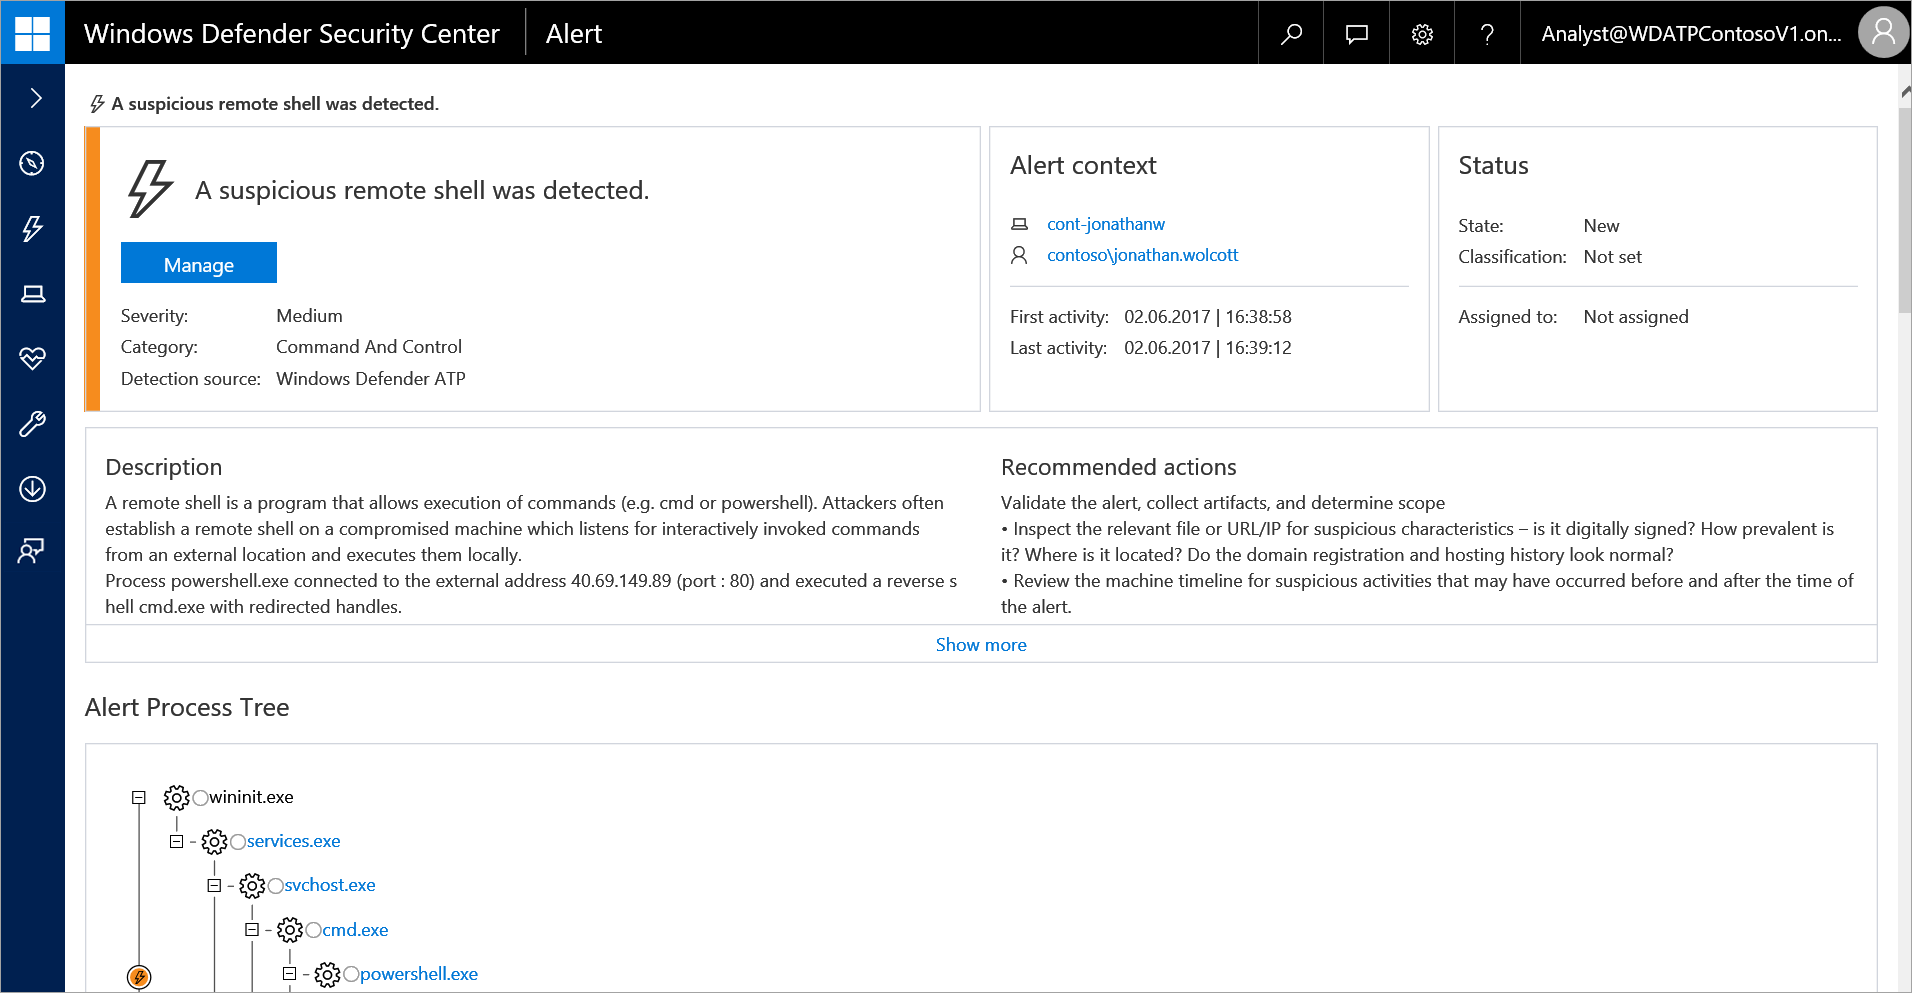
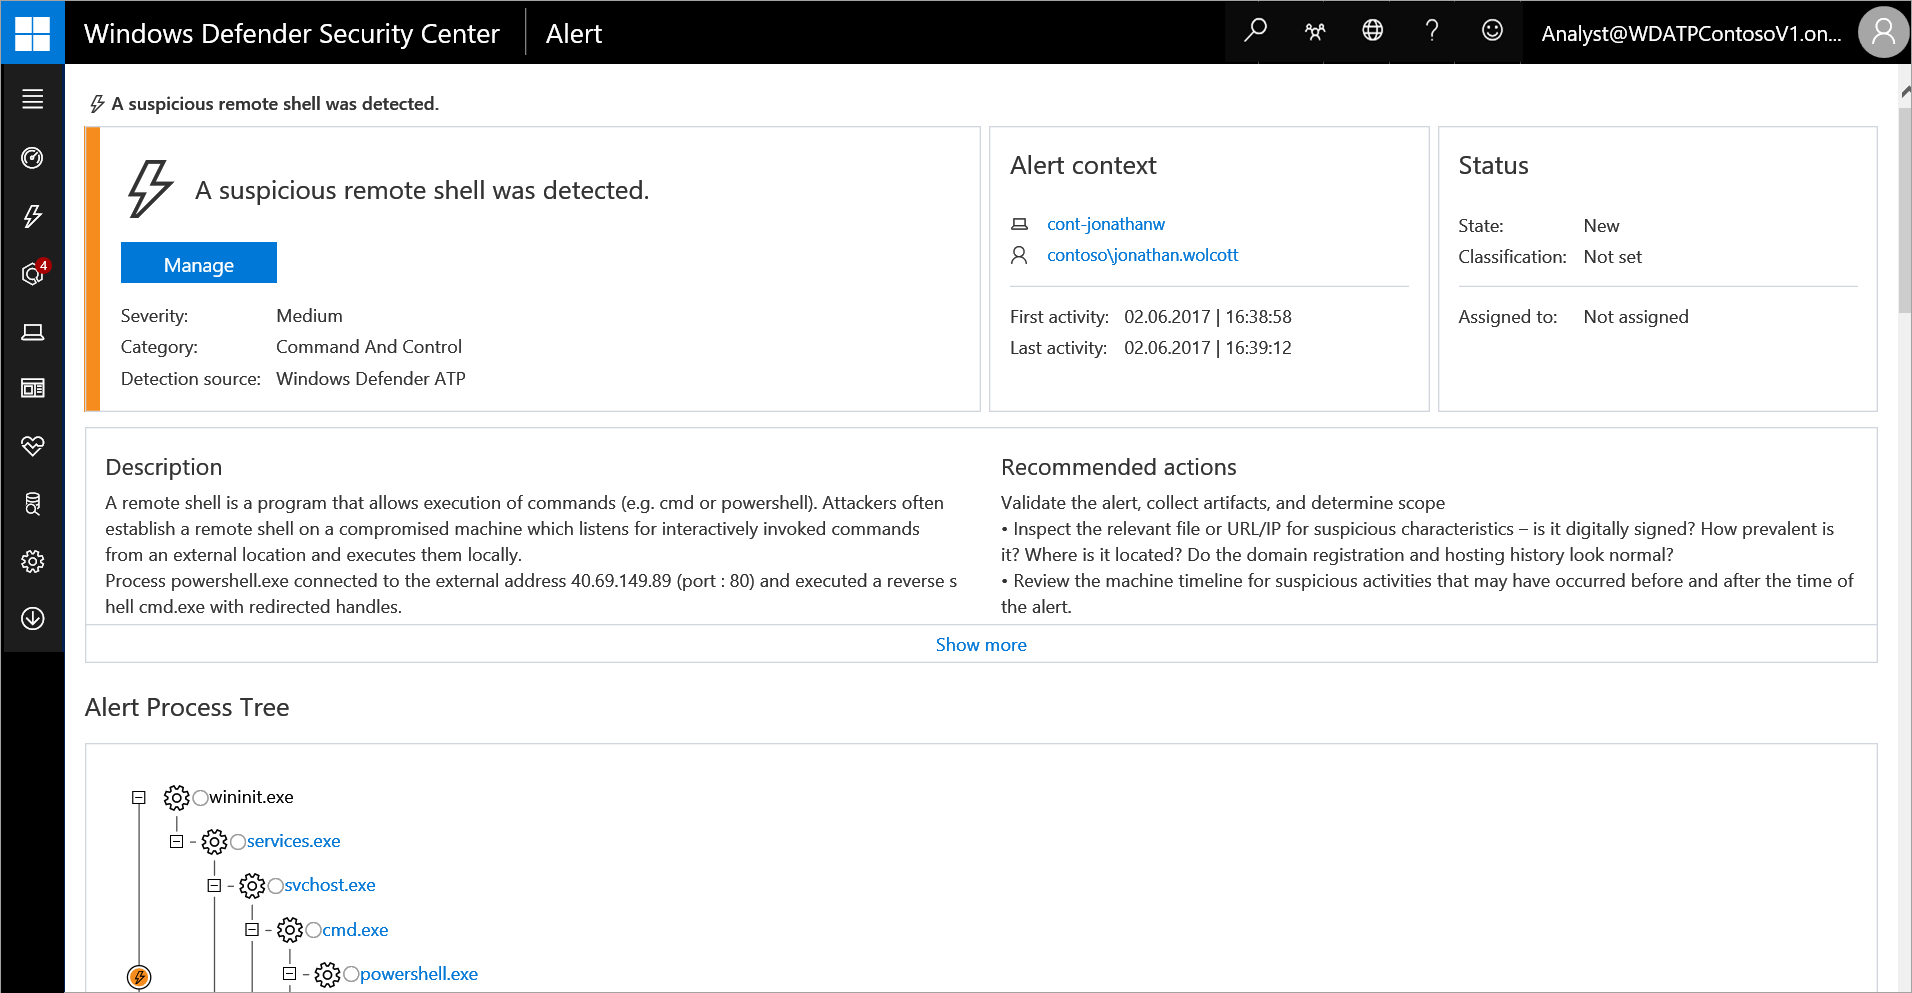
add blurb, update images in investigate alerts

Changed region(s): [[0.0, 0.0624, 0.0309, 1.0], [0.7097, 0.0, 0.7406, 0.0624]]

diff --git a/windows/security/threat-protection/windows-defender-atp/investigate-alerts-windows-defender-advanced-threat-protection.md b/windows/security/threat-protection/windows-defender-atp/investigate-alerts-windows-defender-advanced-threat-protection.md
@@ -10,7 +10,7 @@ ms.pagetype: security
 ms.author: macapara
 author: mjcaparas
 ms.localizationpriority: high
-ms.date: 10/16/2017
+ms.date: 03/05/2018
 ---
 
 # Investigate Windows Defender Advanced Threat Protection alerts
@@ -19,17 +19,17 @@ ms.date: 10/16/2017
 
 - Windows Defender Advanced Threat Protection (Windows Defender ATP)
 
-
+[!include[Prerelease information](prerelease.md)]
 
 >Want to experience Windows Defender ATP? [Sign up for a free trial.](https://www.microsoft.com/en-us/WindowsForBusiness/windows-atp?ocid=docs-wdatp-investigatealerts-abovefoldlink) 
 
-Investigate alerts that are affecting your network, what they mean, and how to resolve them. 
+Investigate alerts that are affecting your network, understand what they mean, and how to resolve them. 
 
 Click an alert to see the alert details view and the various tiles that provide information about the alert. 
 
-You can also manage an alert and see alert metadata along with other information that can help you make better decisions on how to approach them.
+You can also manage an alert and see alert metadata along with other information that can help you make better decisions on how to approach them. You'll also see a status of the automated investigation on the upper right corner. Clicking on the link will take you to the Automated investigations view. For more information, see Automated investigations. 
 
-![Image of the alert page](images/atp-alert-details.png)
+![Image of the alert page](images/atp-alert-view.png)
 
 
 The alert context tile shows the where, who, and when context of the alert. As with other pages, you can click on the icon beside the name or user account to bring up the machine or user details pane. The alert details view also has a status tile that shows the status of the alert in the queue. You'll also see a description and a set of recommended actions which you can expand.

diff --git a/windows/security/threat-protection/windows-defender-atp/troubleshoot-onboarding-windows-defender-advanced-threat-protection.md b/windows/security/threat-protection/windows-defender-atp/troubleshoot-onboarding-windows-defender-advanced-threat-protection.md
@@ -10,7 +10,7 @@ ms.pagetype: security
 ms.author: macapara
 author: mjcaparas
 ms.localizationpriority: high
-ms.date: 11/21/2017
+ms.date: 03/05/2018
 ---
 
 # Troubleshoot Windows Defender Advanced Threat Protection onboarding issues
@@ -25,7 +25,7 @@ ms.date: 11/21/2017
 - Windows Server 2012 R2
 - Windows Server 2016
 
-
+[!include[Prerelease information](prerelease.md)]
 
 You might need to troubleshoot the Windows Defender ATP onboarding process if you encounter issues.
 This page provides detailed steps to troubleshoot onboarding issues that might occur when deploying with one of the deployment tools and common errors that might occur on the endpoints.

diff --git a/windows/security/threat-protection/windows-defender-atp/portal-overview-windows-defender-advanced-threat-protection.md b/windows/security/threat-protection/windows-defender-atp/portal-overview-windows-defender-advanced-threat-protection.md
@@ -8,9 +8,9 @@ ms.mktglfcycl: deploy
 ms.sitesec: library
 ms.pagetype: security
 ms.author: macapara
-author: DulceMV
+author: mjcaparas
 ms.localizationpriority: high
-ms.date: 10/19/2017
+ms.date: 03/05/2018
 ---
 
 # Windows Defender Advanced Threat Protection portal overview
@@ -23,7 +23,7 @@ ms.date: 10/19/2017
 - Windows 10 Pro Education
 - Windows Defender Advanced Threat Protection (Windows Defender ATP)
 
-
+[!include[Prerelease information](prerelease.md)]
 
 >Want to experience Windows Defender ATP? [Sign up for a free trial.](https://www.microsoft.com/en-us/WindowsForBusiness/windows-atp?ocid=docs-wdatp-portaloverview-abovefoldlink) 
 

diff --git a/windows/security/threat-protection/windows-defender-atp/configure-endpoints-windows-defender-advanced-threat-protection.md b/windows/security/threat-protection/windows-defender-atp/configure-endpoints-windows-defender-advanced-threat-protection.md
@@ -10,7 +10,7 @@ ms.pagetype: security
 ms.author: macapara
 author: mjcaparas
 ms.localizationpriority: high
-ms.date: 10/16/2017
+ms.date: 03/05/2018
 ---
 
 # Configure Windows Defender ATP client endpoints
@@ -23,7 +23,7 @@ ms.date: 10/16/2017
 - Windows 10 Pro Education
 - Windows Defender Advanced Threat Protection (Windows Defender ATP)
 
-
+[!include[Prerelease information](prerelease.md)]
 
 Endpoints in your organization must be configured so that the Windows Defender ATP service can get sensor data from them. There are various methods and deployment tools that you can use to configure the endpoints in your organization.
 

diff --git a/windows/security/threat-protection/windows-defender-atp/custom-ti-api-windows-defender-advanced-threat-protection.md b/windows/security/threat-protection/windows-defender-atp/custom-ti-api-windows-defender-advanced-threat-protection.md
@@ -10,7 +10,7 @@ ms.pagetype: security
 ms.author: macapara
 author: mjcaparas
 ms.localizationpriority: high
-ms.date: 10/16/2017
+ms.date: 03/05/2018
 ---
 
 # Create custom alerts using the threat intelligence (TI) application program interface (API)
@@ -23,7 +23,7 @@ ms.date: 10/16/2017
 - Windows 10 Pro Education
 - Windows Defender Advanced Threat Protection (Windows Defender ATP)
 
-
+[!include[Prerelease information](prerelease.md)]
 
 >Want to experience Windows Defender ATP? [Sign up for a free trial.](https://www.microsoft.com/en-us/WindowsForBusiness/windows-atp?ocid=docs-wdatp-customti-abovefoldlink) 
 

diff --git a/windows/security/threat-protection/windows-defender-atp/enable-security-analytics-windows-defender-advanced-threat-protection.md b/windows/security/threat-protection/windows-defender-atp/enable-security-analytics-windows-defender-advanced-threat-protection.md
@@ -10,7 +10,7 @@ ms.pagetype: security
 ms.author: macapara
 author: mjcaparas
 ms.localizationpriority: high
-ms.date: 10/16/2017
+ms.date: 03/05/2018
 ---
 
 # Enable Security Analytics security controls
@@ -23,7 +23,7 @@ ms.date: 10/16/2017
 - Windows 10 Pro Education
 - Windows Defender Advanced Threat Protection (Windows Defender ATP)
 
-
+[!include[Prerelease information](prerelease.md)]
 
 Set the baselines for calculating the score of Windows Defender security controls on the Security Analytics dashboard. If you use third-party solutions, consider excluding the corresponding controls from the calculations.
 

diff --git a/windows/security/threat-protection/windows-defender-atp/dashboard-windows-defender-advanced-threat-protection.md b/windows/security/threat-protection/windows-defender-atp/dashboard-windows-defender-advanced-threat-protection.md
@@ -10,7 +10,7 @@ ms.pagetype: security
 ms.author: macapara
 author: mjcaparas
 ms.localizationpriority: high
-ms.date: 11/01/2017
+ms.date: 03/05/2018
 ---
 
 # View the Windows Defender Advanced Threat Protection Security operations dashboard
@@ -23,7 +23,7 @@ ms.date: 11/01/2017
 - Windows 10 Pro Education
 - Windows Defender Advanced Threat Protection (Windows Defender ATP)
 
-
+[!include[Prerelease information](prerelease.md)]
 
 >Want to experience Windows Defender ATP? [Sign up for a free trial.](https://www.microsoft.com/en-us/WindowsForBusiness/windows-atp?ocid=docs-wdatp-secopsdashboard-abovefoldlink) 
 

diff --git a/windows/security/threat-protection/windows-defender-atp/licensing-windows-defender-advanced-threat-protection.md b/windows/security/threat-protection/windows-defender-atp/licensing-windows-defender-advanced-threat-protection.md
@@ -10,7 +10,7 @@ ms.pagetype: security
 ms.author: v-tanewt
 author: tbit0001
 ms.localizationpriority: high
-ms.date: 10/16/2017
+ms.date: 03/05/2018
 ---
 # Validate licensing provisioning and complete set up for Windows Defender ATP
 
@@ -22,6 +22,7 @@ ms.date: 10/16/2017
 - Windows 10 Pro Education
 - Windows Defender Advanced Threat Protection (Windows Defender ATP)
 
+[!include[Prerelease information](prerelease.md)]
 
 >Want to experience Windows Defender ATP? [Sign up for a free trial.](https://www.microsoft.com/en-us/WindowsForBusiness/windows-atp?ocid=docs-wdatp-validatelicense-abovefoldlink)
 

diff --git a/windows/security/threat-protection/windows-defender-atp/alerts-queue-windows-defender-advanced-threat-protection.md b/windows/security/threat-protection/windows-defender-atp/alerts-queue-windows-defender-advanced-threat-protection.md
@@ -10,7 +10,7 @@ ms.pagetype: security
 ms.author: macapara
 author: mjcaparas
 ms.localizationpriority: high
-ms.date: 11/09/2017
+ms.date: 03/05/2018
 ---
 
 # View and organize the Windows Defender Advanced Threat Protection Alerts queue
@@ -23,7 +23,7 @@ ms.date: 11/09/2017
 - Windows 10 Pro Education
 - Windows Defender Advanced Threat Protection (Windows Defender ATP)
 
-
+[!include[Prerelease information](prerelease.md)]
 
 >Want to experience Windows Defender ATP? [Sign up for a free trial.](https://www.microsoft.com/en-us/WindowsForBusiness/windows-atp?ocid=docs-wdatp-alertsq-abovefoldlink) 
 

diff --git a/windows/security/threat-protection/windows-defender-atp/security-analytics-dashboard-windows-defender-advanced-threat-protection.md b/windows/security/threat-protection/windows-defender-atp/security-analytics-dashboard-windows-defender-advanced-threat-protection.md
@@ -9,7 +9,7 @@ ms.sitesec: library
 ms.pagetype: security
 author: mjcaparas
 localizationpriority: high
-ms.date: 11/17/2017
+ms.date: 03/05/2018
 ---
 
 # View the Windows Defender Advanced Threat Protection Security analytics dashboard
@@ -22,6 +22,7 @@ ms.date: 11/17/2017
 - Windows 10 Pro Education
 - Windows Defender Advanced Threat Protection (Windows Defender ATP)
 
+[!include[Prerelease information](prerelease.md)]
 
 
 >Want to experience Windows Defender ATP? [Sign up for a free trial.](https://www.microsoft.com/en-us/WindowsForBusiness/windows-atp?ocid=docs-wdatp-sadashboard-abovefoldlink) 

diff --git a/windows/security/threat-protection/windows-defender-atp/investigate-domain-windows-defender-advanced-threat-protection.md b/windows/security/threat-protection/windows-defender-atp/investigate-domain-windows-defender-advanced-threat-protection.md
@@ -10,7 +10,7 @@ ms.pagetype: security
 ms.author: macapara
 author: mjcaparas
 ms.localizationpriority: high
-ms.date: 10/16/2017
+ms.date: 03/05/2018
 ---
 # Investigate a domain associated with a Windows Defender ATP alert
 
@@ -22,7 +22,7 @@ ms.date: 10/16/2017
 - Windows 10 Pro Education
 - Windows Defender Advanced Threat Protection (Windows Defender ATP)
 
-
+[!include[Prerelease information](prerelease.md)]
 
 >Want to experience Windows Defender ATP? [Sign up for a free trial.](https://www.microsoft.com/en-us/WindowsForBusiness/windows-atp?ocid=docs-wdatp-investigatedomain-abovefoldlink) 
 
